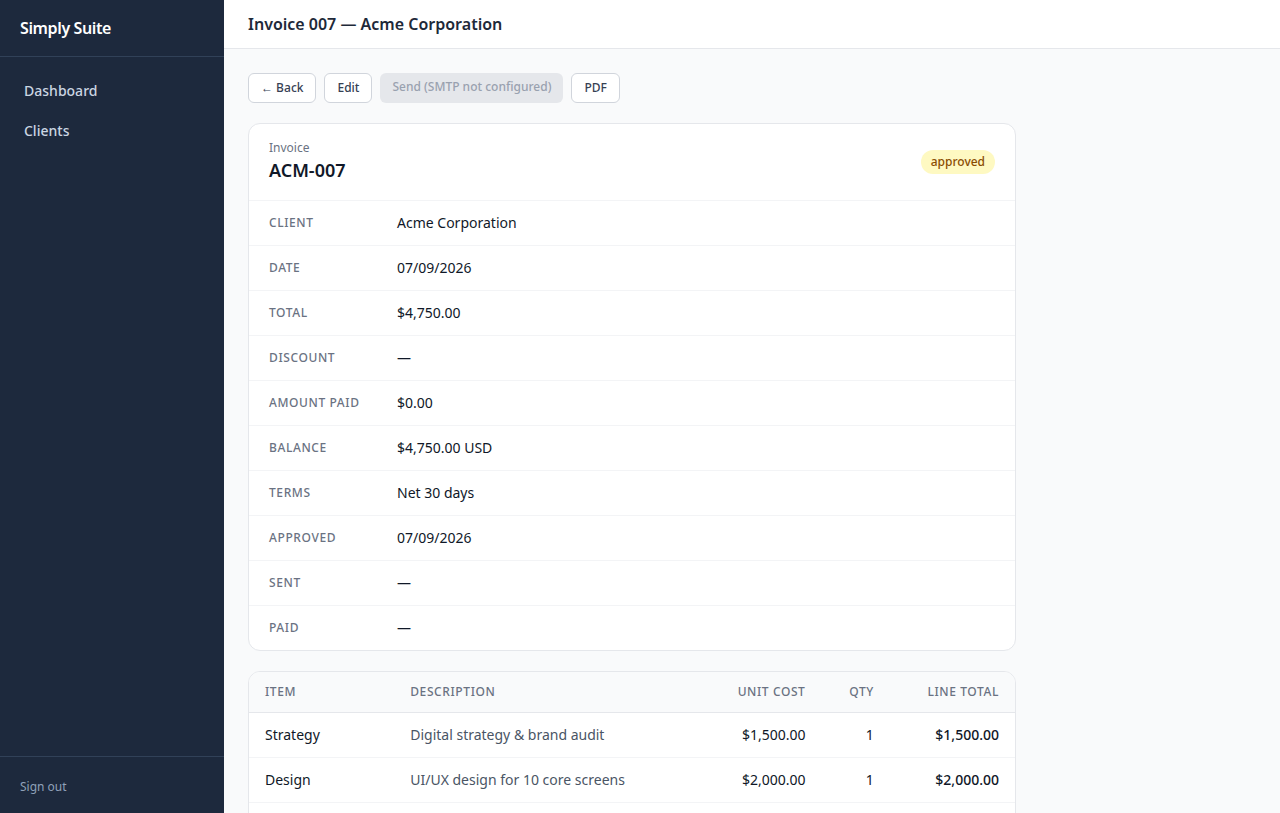
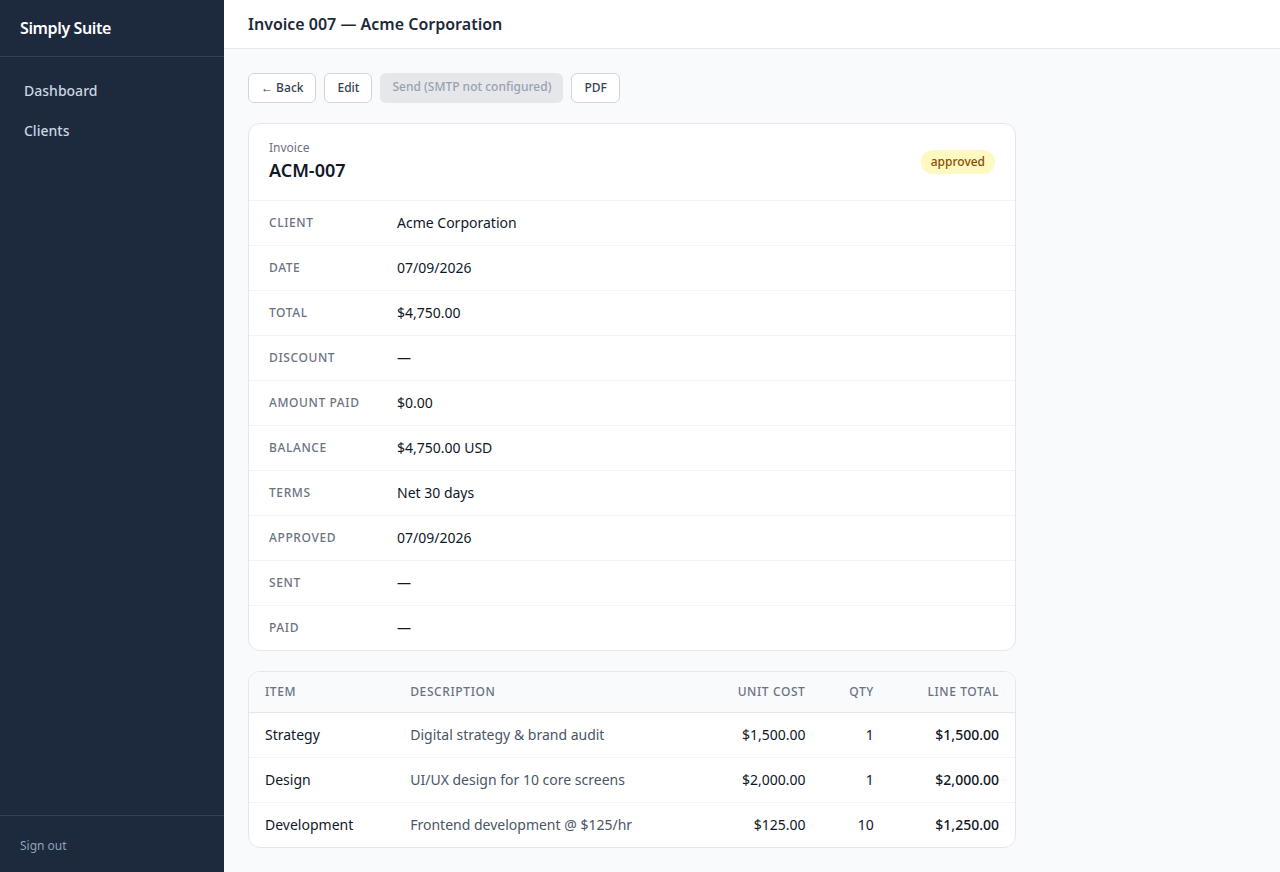
fix: capture full page in screenshot by removing layout overflow constraints

diff --git a/scripts/generate_invoice_screenshot.rb b/scripts/generate_invoice_screenshot.rb
@@ -143,6 +143,16 @@ begin
   browser.goto("http://127.0.0.1:#{PORT}/invoices/view/#{invoice.id}")
   sleep 1.5
 
+  # Remove fixed-height/overflow constraints so full page height is captured
+  browser.execute(<<~JS)
+    document.body.style.height = 'auto';
+    document.body.style.overflow = 'visible';
+    const inner = document.querySelector('body > div.flex-1');
+    if (inner) { inner.style.overflow = 'visible'; inner.style.height = 'auto'; }
+    const main = document.querySelector('main');
+    if (main) { main.style.overflow = 'visible'; main.style.height = 'auto'; }
+  JS
+
   # Take screenshot
   FileUtils.mkdir_p('docs')
   browser.screenshot(path: 'docs/invoice-screenshot.png', full: true)